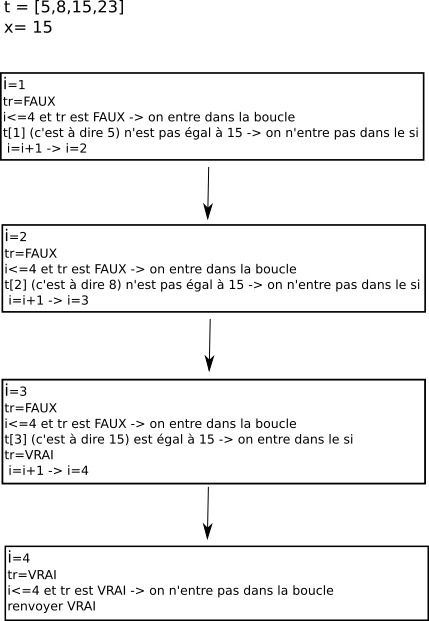
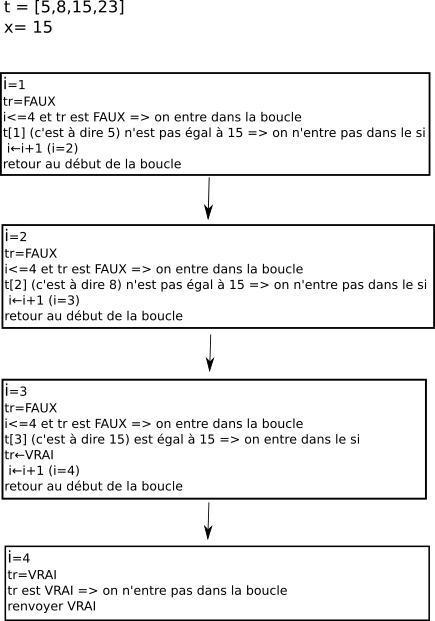
algos tri

diff --git a/n_site/nsi_prem_tri_algo.html b/n_site/nsi_prem_tri_algo.html
@@ -1,0 +1,218 @@
+<!doctype html>
+<!-- Auteur : David Roche @davR74130 -->
+<html lang="fr">
+	<head>
+		<meta charset="utf-8">
+		<title>Algorithmes de tri</title>
+		<link rel="stylesheet" href="css/css/vendor/bootstrap.min.css">
+		<link rel="stylesheet" href="css/css/flat-ui.min.css">
+		<link rel="stylesheet" href="css/style.css">
+    <script src="./css/js/vendor/jquery.min.js"></script>
+    <script src="./css/js/flat-ui.min.js"></script>
+		<script type="text/x-mathjax-config">
+  MathJax.Hub.Config({
+    extensions: ["tex2jax.js"],
+    jax: ["input/TeX","output/HTML-CSS"],
+    tex2jax: {inlineMath: [["$","$"],["\\(","\\)"]]}
+  });
+</script>
+    <script type="text/javascript"
+  src="https://cdn.mathjax.org/mathjax/latest/MathJax.js?config=TeX-AMS-MML_HTMLorMML">
+</script>
+	</head>
+	<body>
+    <nav class="navbar navbar-default navbar-fixed-top">
+      <div class="container">
+        <div class="navbar-header">
+          <button type="button" class="navbar-toggle collapsed" data-toggle="collapse" data-target="#navbar" aria-expanded="false" aria-controls="navbar">
+            <span class="sr-only">Toggle navigation</span>
+            <span class="icon-bar"></span>
+            <span class="icon-bar"></span>
+            <span class="icon-bar"></span>
+          </button>
+          <span class="navbar-brand">NSI première</span>
+					<span class="navbar-brand">Algorithmes de tri</span>
+        </div>
+      </div>
+    </nav>
+    <div class="container act">
+			<p>
+				Les algorithmes de tri des éléments d'un tableau ont une place à part en algorithmique. En effet, ils sont souvent utilisés pour mettre en évidence certains concepts algorithmiques (concepts que l'on retrouve dans d'autres types d'algorithmes).
+				Nous allons commencer par 2 algorithmes "classiques" : le tri par insertion et le tri par sélection.
+			</p>
+			<h4>Tri par insertion</h4>
+			<p>
+				Entrons tout de suite dans le vif du sujet, voici l'algorithme du tri par insertion :
+			</p>
+			<pre style="color:white; background-color:black;"><code >
+VARIABLE
+t : tableau d'entiers
+i : nombre entier
+j : nombre entier
+k : nombre entier
+DEBUT
+j←2
+tant que j&lt=longueur(t):   //boucle 1
+  i←j-1
+  k←t[j]
+  tant que i&gt0 et que t[i]&gtk:   //boucle 2
+    t[i+1]←t[i]
+    i←i-1
+  fin tant que
+  t[i+1]←k
+  j←j+1
+fin tant que
+FIN
+			</code></pre>
+			<p>
+				Remarque : il est possible de mettre des commentaires à l'aide de "//" afin de rendre la compréhension des algorithmes plus aisée
+			</p>
+			<h4>À faire vous-même 1</h4>
+			<p>
+				Poursuivez le travail commencé ci-dessous (attention de bien donner l'état du tableau à chaque étape)
+			</p>
+			<div class="centrer">
+				<img src="img/nsi_prem_algo_tri_1.png" alt="algo"/>
+			</div>
+			<hr />
+			<p>
+				On peut résumer le principe de fonctionnement de l'algorithme de tri par insertion avec le schéma suivant :
+			</p>
+			<div class="centrer">
+				<img src="img/nsi_prem_algo_tri_2.png" alt="algo"/>
+			</div>
+			<h4>À faire vous-même 2</h4>
+			<p>
+				Essayez de produire le même type de schéma explicatif que ci-dessus avec le tableau t = [12, 8, 23, 10, 15]
+			</p>
+			<hr />
+			<p>
+				Essayons maintenant de déterminer la complexité de l'algorithme de tri par insertion :
+			</p>
+			<p>
+				Comme précédemment nous nous intéresserons à la complexité en temps dans le pire des cas. À quoi correspond le pire des cas pour un algorithme de tri ? Tout simplement quand le tableau initial est "trié à l'envers"
+				(les entiers sont classés du plus grand au plus petit), comme dans cet exemple : t = [5, 4, 3, 2, 1].
+			</p>
+			<p>
+				Pour déterminer la complexité de l'algorithme de tri par insertion nous n'allons pas rechercher le nombre d'opérations élémentaires, mais, pour souci de simplicité,
+				directement nous intéresser au "nombre de décalages effectués" pour trier entièrement un tableau. J'appelle "décalage" ce qui est symbolisé par une flèche noire sur le schéma ci-dessous :
+			</p>
+			<div class="centrer">
+				<img src="img/nsi_prem_algo_tri_3.png" alt="algo"/>
+			</div>
+			<p>
+				Pour l'étape ci-dessus nous avons 3 décalages (décalages du 10, du 12 et du 27). Nous ne tiendrons pas compte du "placement" du nombre en cours de traitement (8 dans notre exemple) symbolisé par la flèche en pointillé.
+			</p>
+			<p>
+				Évaluons le nombre de décalages nécessaires pour trier le tableau t = [5, 4, 3, 2, 1]
+			</p>
+			<div class="centrer">
+				<img src="img/nsi_prem_algo_tri_4.png" alt="algo"/>
+			</div>
+			<p>
+				Il est, je l'espère, évident pour vous que nous avons : 1 + 2 + 3 + 4 = 10 décalages.
+			</p>
+			<p>
+				Dans le cas où nous avons un tableau à trier qui contient n éléments, nous aurons : 1 + 2 + 3 +....+ n-3 + n-2 + n-1 décalages (puisque pour 5 éléments nous avons 1 + 2 + 3 + 4 ). Si vous n'êtes pas convaincu, faites le test avec un tableau de 6 éléments, vous devriez trouver 1 + 2 + 3 + 4 + 5 = 15 décalages.
+			</p>
+			<p>
+				Que vaut cette somme S = 1 + 2 + 3 + .... + n-3 + n-2 + n-1 ?
+			</p>
+			<p>
+				Écrivons cette somme un peu différemment : S' = n-1 + n-2 + n-3 + .... + 3 + 2 + 1 (avec S = S' puisque l'addition est commutative)
+			</p>
+			<p>
+				En associant les termes de cette somme un par un nous obtenons : S + S' = n + n + n + .... + n + n + n (puisque 1+n-1=n, 2+n-2=n, 3+n-3=n,...., n-3+3=n, n-2+2=n et n-1+1=n)
+			</p>
+			<p>
+				Soit, puisque S=S' : 2S = n + n + n + .... + n + n + n
+			</p>
+			<p>
+				Si vous comptez bien nous avons n-1 fois n, ce que l'on peut écrire : 2S = $n(n-1)$ soit S = $\frac{n(n-1)}{2}$ soit S = $\frac{n^2-n}{2}$ soit encore S = $\frac{1}{2}n^2-\frac{1}{2}n$
+			</p>
+			<p>
+				Comme nous l'avons vu précédemment $\frac{1}{2}n^2-\frac{1}{2}n$ = O($n^2$), l'algorithme de tri par insertion a donc une complexité en O($n^2$). On parle aussi de complexité quadratique.
+			</p>
+			<p>
+				Passons maintenant à un autre algorithme de tri : le tri par sélection
+			</p>
+			<h4>Tri par sélection</h4>
+			<pre style="color:white; background-color:black;"><code >
+VARIABLE
+t : tableau d'entiers
+i : nombre entier
+min : nombre entier
+j : nombre entier
+DEBUT
+i←1
+tant que i&ltlongueur(t):   //boucle 1
+  j←i+1
+  min←i
+  tant que j&lt=longueur(t):   //boucle 2
+    si t[j]&ltt[min]:
+      min←j
+    fin si
+    j←j+1
+  fin tant que
+  si min≠i :
+    échanger t[i] et t[min]
+  fin si
+  i←i+1
+fin tant que
+FIN
+			</code></pre>
+			<h4>À faire vous-même 3</h4>
+			<p>
+				Poursuivez le travail commencé ci-dessous (attention de bien donner l'état du tableau)
+			</p>
+			<div class="centrer">
+				<img src="img/nsi_prem_algo_tri_5.png" alt="algo"/>
+			</div>
+			<hr />
+			<p>
+				On peut résumer le principe de fonctionnement de l'algorithme de tri par sélection avec le schéma suivant :
+			</p>
+			<div class="centrer">
+				<img src="img/nsi_prem_algo_tri_6.png" alt="algo"/>
+			</div>
+			<h4>À faire vous-même 4</h4>
+			<p>
+				Essayez de produire le même type de schéma explicatif que ci-dessus avec le tableau t = [12, 8, 23, 10, 15]
+			</p>
+			<hr />
+			<p>
+				Essayons maintenant de déterminer la complexité de l'algorithme de tri par sélection :
+			</p>
+			<p>
+				Pour établir la complexité de cet algorithme, comme pour l'algorithme de tri par insertion, nous n'allons pas directement nous intéresser au nombre d'opérations élémentaires. Cette fois, nous allons comptabiliser les comparaisons entre 2 entiers.
+			</p>
+			<p>
+				Si nous nous intéressons à l'étape qui nous permet de passer de t = [12, 8, 23, 10, 15] à t = [8, 12, 23, 10, 15] (i = 1) nous avons 4 comparaisons : 12 avec 8, puis 8 avec 23, puis 8 avec 10 et enfin 8 avec 15.
+			</p>
+			<p>
+				Si nous nous intéressons à l'étape qui nous permet de passer de t = [8, 12, 23, 10, 15] à t = [8, 10, 23, 12, 15] (i = 2) nous avons 3 comparaisons : 12 avec 23, puis 12 avec 10, et enfin 10 avec 15.
+			</p>
+			<p>
+				Si nous nous intéressons à l'étape qui nous permet de passer de t = [8, 10, 23, 12, 15] à t = [8, 10, 12, 23, 15] (i = 3) nous avons 2 comparaisons : 23 avec 12 et 12 avec 15
+			</p>
+			<p>
+				Si nous nous intéressons à l'étape qui nous permet de passer de t = [8, 10, 12, 23, 15] à t = [8, 10, 12, 15, 23] (i = 4) nous avons 1 comparaison : 23 avec 15
+			</p>
+			<p>
+				Pour trier un tableau comportant 5 éléments nous avons : 4 + 3 + 2 + 1 = 10 comparaisons
+			</p>
+			<p>
+				Dans le cas où nous avons un tableau à trier qui contient n éléments, nous aurons : n-1 + n-2 + n-3 +....+ 3 + 2 + 1  comparaisons. Si vous n'êtes pas convaincu, faites le test avec un tableau de 6 éléments, vous devriez trouver 5 + 4 + 3 + 2 +1 = 15 comparaisons.
+			</p>
+			<p>
+				Vous avez sans doute déjà remarqué que nous avons un résultat similaire au tri par insertion (sauf que nous nous intéressons ici aux comparaisons alors que pour le tri par insertion nous nous intéressons aux décalages, mais cela ne change rien au problème)
+			</p>
+			<p>
+				Conclusion : nous allons trouver exactement le même résultat que pour le tri par insertion : l'algorithme de tri par sélection a une complexité en O($n^2$) (complexité quadratique).
+			</p>
+			<p>
+				Nous avons vu précédemment des algorithmes de complexité linéaire ($O(n)$) avec les algorithmes de recherche d'un entier dans un tableau, de recherche d'un extremum ou encore de calcul d'une moyenne. Nous avons vu ici que les algorithmes de tri par sélection et de tri par insertion ont tous les deux une complexité quadratique ($O(n^2)$). Il est important de bien avoir conscience de l'impact de ces complexités sur l'utilisation des algorithmes : si vous doublez la taille du tableau, vous doublerez le temps d'exécution d'un algorithme de complexité linéaire, en revanche vous quadruplerez le temps d'exécution d'un algorithme de complexité quadratique.
+			</p>
+		</div>
+	</body>
+</html>

diff --git a/n_site/nsi_prem_web_intro.html b/n_site/nsi_prem_web_intro.html
@@ -48,7 +48,7 @@
 				Techniquement le web se base sur trois choses : le protocole HTTP (HyperText Transfert Protocol), les URL (Uniform Resource Locator) et le langage de description HTML (HyperText Markup Language). Nous aurons, très prochainement l'occasion de revenir sur ces trois éléments.
 			</p>
 			<p>
-				Une chose très importante à bien avoir à l'esprit : beaucoup de personnes confondent "web" et "internet". Même si le "web" "s'appuie" sur internet, les deux choses n'ont rien à voir puisqu'"internet" est un "réseau de réseau" s'appuyant sur le protocole IP (voir le module Internet) alors que, comme nous venons de le voir, le web est la combinaison de trois technologies : HTTP, URL et HTML.
+				Une chose très importante à bien avoir à l'esprit : beaucoup de personnes confondent "web" et "internet". Même si le "web" "s'appuie" sur internet, les deux choses n'ont rien à voir puisqu'"internet" est un "réseau de réseau" s'appuyant sur le protocole IP alors que, comme nous venons de le voir, le web est la combinaison de trois technologies : HTTP, URL et HTML.
 				D'ailleurs on trouve autre chose que le "web" sur internet, par exemple, les emails avec le protocole SMTP (Simple Mail Transfert Protocol) et les transferts de fichiers avec le protocole FTP (File Transfert Protocol).
 			</p>
 		</div>

diff --git a/n_site/nsi_prem_intro_algo.html b/n_site/nsi_prem_intro_algo.html
@@ -98,13 +98,13 @@ x : nombre entier
 tr : booléen (VRAI ou FAUX)
 i : nombre entier
 DEBUT
-tr = FAUX
-i=1
+tr ← FAUX
+i ← 1
 tant que i&lt=longueur(t) et que tr==FAUX:
   si t[i]==x:
-    tr=VRAI
+    tr ← VRAI
   fin si
-  i=i+1
+  i ← i+1
 fin tant que
 renvoyer la valeur de tr
 FIN
@@ -166,13 +166,13 @@ x : nombre entier
 tr : booléen (VRAI ou FAUX)
 i : nombre entier
 DEBUT
-1 fois   tr = FAUX
-1 fois   i=1
+1 fois   tr ← FAUX
+1 fois   i ← 1
 j+1 fois tant que i&lt=longueur(t) et que tr==FAUX:
 j fois      si t[i]==x:
-1 fois       tr=VRAI
+1 fois       tr ← VRAI
            fin si
-j fois     i=i+1
+j fois     i ← i+1
         fin tant que
 1 fois  renvoyer la valeur de tr
 FIN
@@ -190,13 +190,13 @@ x : nombre entier
 tr : booléen (VRAI ou FAUX)
 i : nombre entier
 DEBUT
-1 fois   tr = FAUX
-1 fois   i=1
+1 fois   tr ← FAUX
+1 fois   i ← 1
 n+1 fois tant que i&lt=longueur(t) et que tr==FAUX:
 n fois      si t[i]==x:
-0 fois       tr=VRAI
+0 fois       tr ← VRAI
            fin si
-n fois     i=i+1
+n fois     i ← i+1
         fin tant que
 1 fois  renvoyer la valeur de tr
 FIN

diff --git a/n_site/nsi_prem.html b/n_site/nsi_prem.html
@@ -220,7 +220,7 @@
 						            </div>
 						            <div class="col-xs-12 col-sm-12 col-md-6 col-lg-6">
 						              <div class="tile">
-						                <h3 class="tile-title"><a href="" target="_blank"></a></h3>
+						                <h3 class="tile-title"><a href="nsi_prem_tri_algo.html" target="_blank">Tri par insertion et tri par sélection</a></h3>
 						              </div>
 						            </div>
 						          </div> <!-- /row -->
